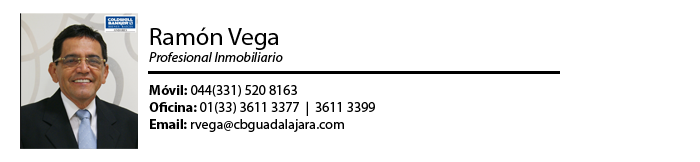
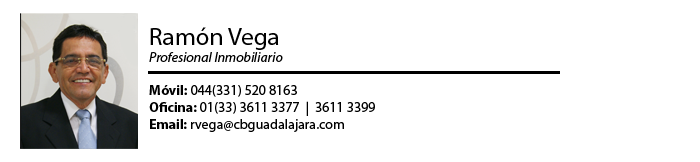
2013-01-B - Actualizaciones al Personal =============================== Se elimina el logotipo de Coldwell Banker Andares de las fotografias. Se agrega la fotografía de Carmen Gonzalez y da de alta a Yolanda Mancilla y Juana Saldaña. Se da de baja a A. Carmona.

Changed region(s): [[0.09, 0.0926, 0.21, 0.3086]]

diff --git a/Personal.html b/Personal.html
@@ -78,7 +78,7 @@ function MM_swapImage() { //v3.0
         <td width="532" height="3785" valign="top" scope="col"><p><img src="Personal/staff.png" width="700" height="50"></p>
           <p><img src="Personal/techo.png" width="700" height="20"><img src="Personal/vromo.png" alt="Email a Vicente Romo" width="700" height="162" border="0"><img src="Personal/tochoa.png" width="700" height="162"><img src="Personal/ibracamontes.png" width="700" height="162"><img src="Personal/fondo.png" width="700" height="18"></p>
 <p><img src="Personal/profesionales.png" width="700" height="38"></p>
-          <p><img src="Personal/techo.png" width="700" height="20"><img src="Personal/mhernadez.png" width="700" height="162"><img src="Personal/fmuleiro.png" width="700" height="162"><img src="Personal/jgalvan.png" width="700" height="162"><img src="Personal/rvega.png" width="700" height="162"><img src="Personal/gcorrea.png" width="700" height="162"><img src="Personal/ijimenez.png" width="700" height="162"><img src="Personal/shernandez.png" width="700" height="162"><img src="Personal/acarmona.png" width="700" height="162"><img src="Personal/afelix.png" width="700" height="162"><img src="Personal/sramirez.png" width="700" height="162"><img src="Personal/malvarez.png" width="700" height="162"><img src="Personal/ltoscano.png" width="700" height="162"><img src="Personal/lrosas.png" width="700" height="162"><img src="Personal/lcaballero.png" width="700" height="162"><img src="Personal/jperez.png" width="700" height="162"><img src="Personal/gbremer.png" width="700" height="162"><img src="Personal/cjimenez.png" width="700" height="162"><img src="Personal/rcastellanos.png" width="700" height="162"><img src="Personal/cgonzalez.png" width="700" height="162"><img src="Personal/fondo.png" width="700" height="18"></p></td>
+          <p><img src="Personal/techo.png" width="700" height="20"><img src="Personal/mhernandez.png" width="700" height="162"><img src="Personal/fmuleiro.png" width="700" height="162"><img src="Personal/jgalvan.png" width="700" height="162"><img src="Personal/rvega.png" width="700" height="162"><img src="Personal/gcorrea.png" width="700" height="162"><img src="Personal/ijimenez.png" width="700" height="162"><img src="Personal/shernandez.png" width="700" height="162"><img src="Personal/afelix.png" width="700" height="162"><img src="Personal/sramirez.png" width="700" height="162"><img src="Personal/malvarez.png" width="700" height="162"><img src="Personal/ltoscano.png" width="700" height="162"><img src="Personal/lrosas.png" width="700" height="162"><img src="Personal/lcaballero.png" width="700" height="162"><img src="Personal/jperez.png" width="700" height="162"><img src="Personal/gbremer.png" width="700" height="162"><img src="Personal/cjimenez.png" width="700" height="162"><img src="Personal/rcastellanos.png" width="700" height="162"><img src="Personal/cgonzalez.png" width="700" height="162"><img src="Personal/ymancilla.png" width="700" height="162"><img src="Personal/jsaldana.png" width="700" height="162"><img src="Personal/fondo.png" width="700" height="18"></p></td>
         <th width="20" valign="top" nowrap scope="col"><p>&nbsp;</p>
           <p>&nbsp;</p>
           <p>&nbsp;</p></th>
